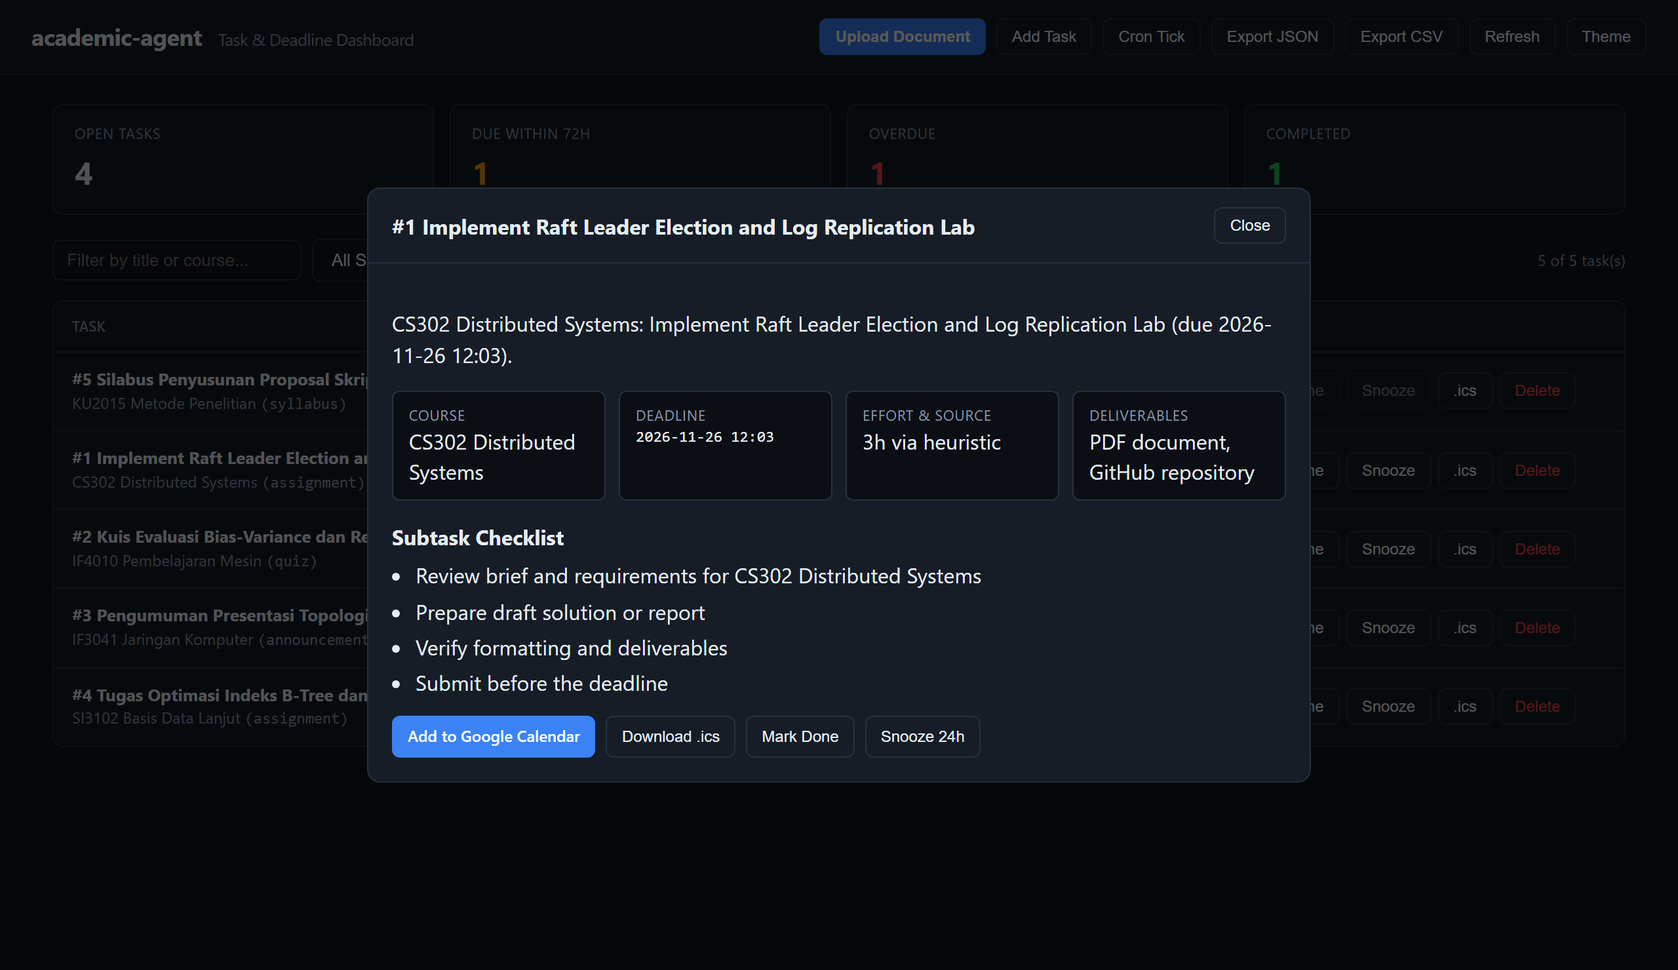
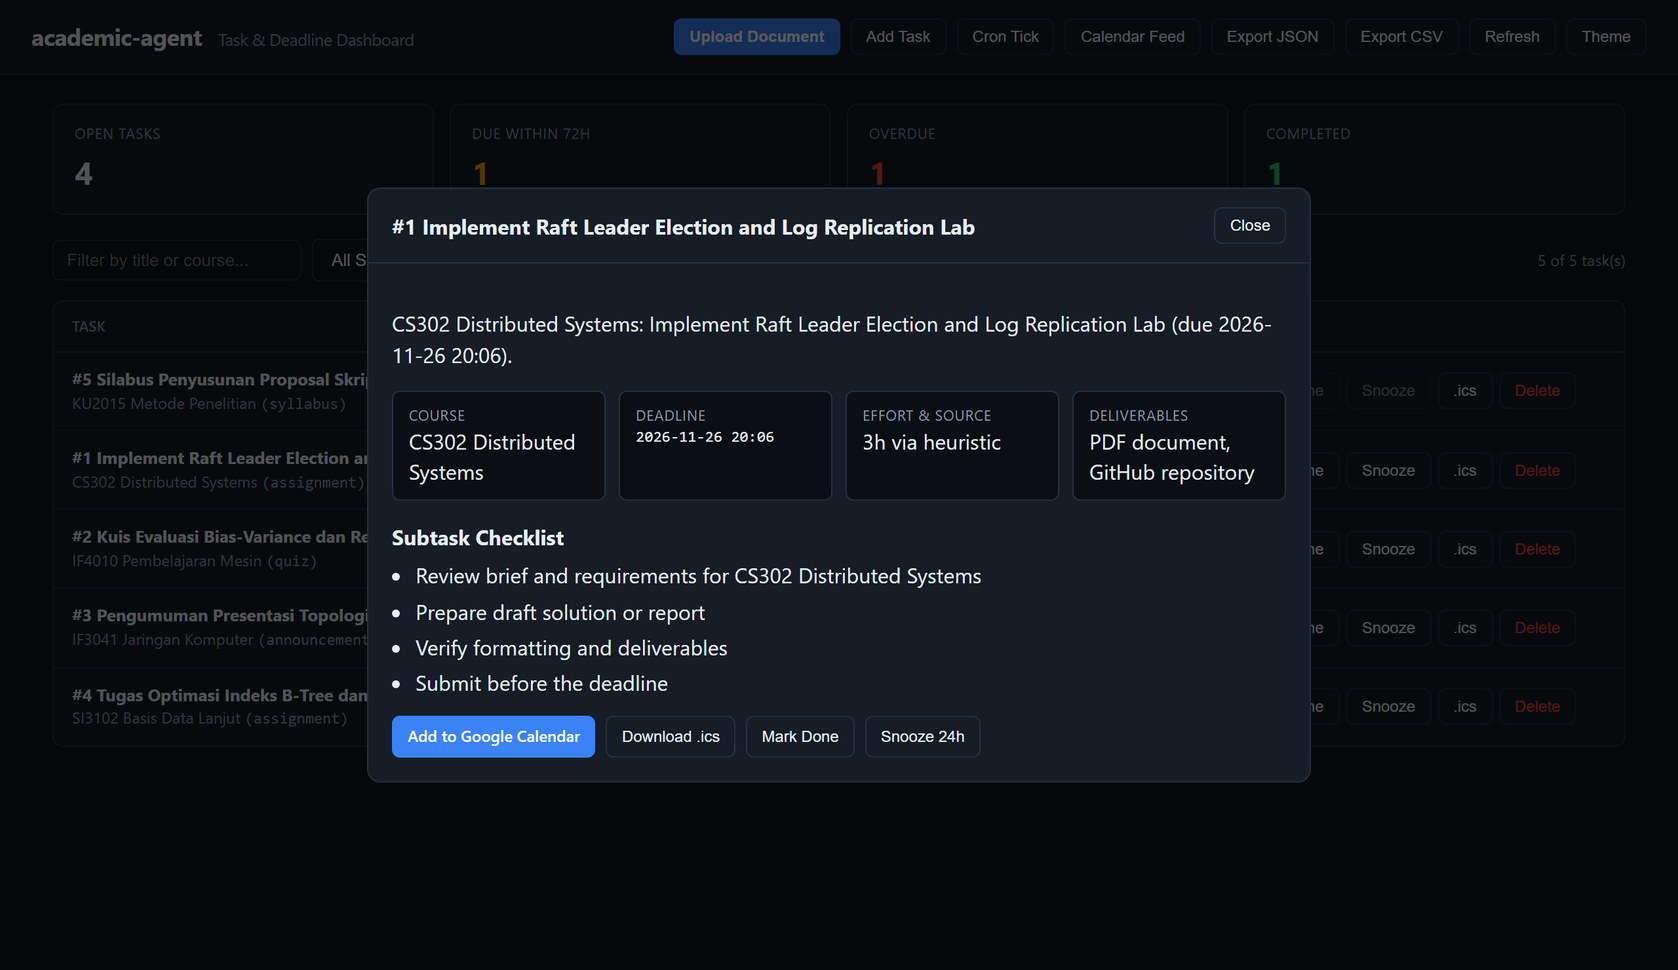
docs: add Docker, distribution, and measured benchmark guides for v0.3.0

Changed region(s): [[0.375, 0.0, 0.7188, 0.0622], [0.25, 0.3419, 0.2812, 0.373]]

diff --git a/README.md b/README.md
@@ -2,11 +2,12 @@
 
 [![CI](https://github.com/luminariadev/academic-agent/actions/workflows/ci.yml/badge.svg)](https://github.com/luminariadev/academic-agent/actions/workflows/ci.yml)
 [![Release](https://img.shields.io/github/v/release/luminariadev/academic-agent?display_name=tag)](https://github.com/luminariadev/academic-agent/releases)
+[![Docker GHCR](https://img.shields.io/badge/ghcr.io-academic--agent-blue)](https://github.com/luminariadev/academic-agent/pkgs/container/academic-agent)
 [![License](https://img.shields.io/github/license/luminariadev/academic-agent)](LICENSE)
 [![Rust 1.82+](https://img.shields.io/badge/rust-1.82%2B-orange)](https://www.rust-lang.org)
 [![MCP stdio + HTTP](https://img.shields.io/badge/MCP-stdio%20%2B%20HTTP-blue)](docs/mcp.md)
 
-A single-binary Rust assistant for ingesting academic documents, extracting assignments and deadlines, synchronizing timezone-accurate `.ics` calendars, running cron deadline reminders, dispatching Discord and Hermes notifications, and exposing task management over the Model Context Protocol (MCP).
+A single-binary Rust assistant for ingesting academic documents, extracting assignments and deadlines, publishing timezone-accurate `.ics` calendars and live iCalendar feeds, running cron deadline reminders, dispatching two-way Discord and Hermes notifications, and exposing task management over the Model Context Protocol (MCP).
 
 ## Why academic-agent
 
@@ -14,13 +15,13 @@ Syllabi, lecture PDFs, DOCX assignment sheets, and portal announcements arrive i
 
 - **Multi-format document ingestion**: parses `.pdf` (pure-Rust `lopdf`), `.docx` paragraphs and tables (`zip` + `quick-xml`), `.txt`, and `.md` files from CLI commands, folder watching (tracking both create and move/rename events), multipart HTTP uploads, and signed `webdelta` webhooks.
 - **Hybrid bilingual extractor**: queries any Chat Completions HTTP gateway for structured task extraction and falls back deterministically to a bilingual Indonesian and English heuristic parser (`15 Juli 2026`, `July 15, 2026`, `DD/MM/YYYY`, ISO timestamps) when offline.
-- **Timezone-accurate calendars**: generates RFC 5545 `.ics` files with dual reminders (`-P1D` and `-PT1H`) and 1-click Google Calendar links converted accurately from your configured IANA timezone (for example `Asia/Jakarta`) to UTC.
+- **Timezone-accurate calendars and live subscription feed**: generates RFC 5545 `.ics` files with dual reminders (`-P1D` and `-PT1H`), 1-click Google Calendar links converted accurately from your configured IANA timezone (for example `Asia/Jakarta`) to UTC, plus a live `GET /api/calendar/feed.ics` subscription endpoint (with `?token=`, `?course=`, and `?include_completed=`) and CLI `calendar-feed`.
 - **Embedded `redb` task store with deduplication**: computes SHA-256 content hashes inside ACID transactions so re-scanning or re-uploading the same document never duplicates tasks, calendars, or alerts.
 - **Cron reminder and digest scheduler**: dispatches a scheduled local-time daily digest plus tiered deadline alerts (default `H-72h`, `H-24h`, `H-3h`, and `OVERDUE`) with anti-spam persistence and per-task snoozing.
-- **Embedded local web dashboard**: serves a self-contained dark/light task management UI at `GET /` with urgency counters, status/priority filtering, document upload, manual task creation, `.ics`/JSON/CSV exports, and manual cron triggers.
+- **Embedded local web dashboard**: serves a self-contained dark/light task management UI at `GET /` with urgency counters, status/priority filtering, document upload, manual task creation, one-click `Calendar Feed` subscription URL copy, `.ics`/JSON/CSV exports, and manual cron triggers.
 - **Two-way Discord and Hermes integration**: sends structured embeds with interactive **Mark Done**, **Snooze 24h**, and **Add to Google Calendar** buttons over Discord REST v10 or Webhooks (`429 Retry-After` backoff), handles slash commands (`/tasks`, `/upcoming`, `/done`, `/snooze`, `/add`, `/digest`) and button callbacks over Discord Gateway (`intents: 0`), plus optional `hermes` CLI dispatch and outbound signed n8n webhooks.
 - **Optional Playwright LMS connector**: bridges JavaScript-heavy university portals into `academic-agent serve` via [connectors/lms-playwright/](connectors/lms-playwright/README.md) with persistent session cookies, attachment uploads, configurable site selector profiles, and a simulated campus LMS for offline testing.
-- **Built-in MCP server**: serves 8 MCP tools and 4 read-only `academic://` resources over `stdio` or Streamable HTTP (`POST /mcp`).
+- **Built-in MCP server**: serves 8 MCP tools and 5 read-only `academic://` resources (`academic://calendar/feed` included) over `stdio` or Streamable HTTP (`POST /mcp`).
 
 ## Dashboard Preview
 
@@ -54,6 +55,29 @@ flowchart LR
 ### Prebuilt Binaries
 
 Download standalone archives for Linux (`x86_64`), Windows (`x86_64`), and macOS (`x86_64` and Apple Silicon) with `SHA256SUMS.txt` from [GitHub Releases](https://github.com/luminariadev/academic-agent/releases).
+
+### Scoop (Windows)
+
+```powershell
+scoop install https://raw.githubusercontent.com/luminariadev/academic-agent/main/packaging/scoop/academic-agent.json
+```
+
+### Homebrew (macOS and Linux)
+
+```bash
+brew install --formula https://raw.githubusercontent.com/luminariadev/academic-agent/main/packaging/homebrew/academic-agent.rb
+```
+
+### Docker and GHCR
+
+Pull the multi-stage non-root image from GitHub Container Registry or build locally with Compose (see [docs/docker.md](docs/docker.md)):
+
+```bash
+docker pull ghcr.io/luminariadev/academic-agent:latest
+docker run -d -p 8080:8080 -v "$(pwd)/data:/data" ghcr.io/luminariadev/academic-agent:latest
+```
+
+See [docs/distribution.md](docs/distribution.md) for checksum verification, package manifest updates, and crate publishing order.
 
 ### Build from Source
 
@@ -153,13 +177,16 @@ Global flags: `--config <PATH>` (default `academic-agent.toml`), `--db <PATH>`, 
 | `academic-agent test-discord` | Send a synthetic verification embed via Discord or Hermes. |
 | `academic-agent discord register-commands [--guild]` | Register `/tasks`, `/upcoming`, `/done`, `/snooze`, `/add`, and `/digest` slash commands with Discord. |
 | `academic-agent discord bot` | Start the persistent Discord Gateway WebSocket listener (`intents: 0`). |
-| `academic-agent serve [--bind B] [--with-cron] [--with-watch] [--with-discord-bot]` | Start the web dashboard, REST API, `webdelta` webhook endpoint, background loops, and `/mcp`. |
+| `academic-agent serve [--bind B] [--with-cron] [--with-watch] [--with-discord-bot]` | Start the web dashboard, REST API, live `.ics` feed, `webdelta` webhook endpoint, background loops, and `/mcp`. |
 | `academic-agent mcp [--http <bind>] [--token <secret>]` | Run MCP over `stdio` or standalone Streamable HTTP. |
+| `academic-agent calendar-feed [--include-completed] [--course C] [--output F]` | Export an RFC 5545 `.ics` subscription feed of tracked tasks. |
 
-## Discord, Hermes, LMS Connector, n8n, and webdelta
+## Calendar Feed, Integrations, and Guides
 
+- **Live iCalendar subscription feed**: subscribe Google Calendar, Apple Calendar, or Outlook to `GET /api/calendar/feed.ics` (supports `?token=<api_token>`, `?course=<filter>`, and `?include_completed=true`), copy the live URL from the dashboard header **Calendar Feed** button, or export offline with `academic-agent calendar-feed`.
 - **Discord and Hermes**: see [docs/discord-and-hermes.md](docs/discord-and-hermes.md) for configuring Bot REST API v10, two-way Gateway slash commands (`/tasks`, `/upcoming`, `/done`, `/snooze`, `/add`, `/digest`) and button callbacks, `429 Retry-After` retries, and Hermes CLI fallback.
 - **Optional Playwright LMS connector**: see [docs/lms-playwright.md](docs/lms-playwright.md) for headless university portal scraping, persistent cookie reuse, selector manifests, and the built-in simulated campus LMS.
+- **Docker and distribution**: see [docs/docker.md](docs/docker.md) for non-root Docker Compose and GHCR usage, and [docs/distribution.md](docs/distribution.md) for Scoop, Homebrew, and `SHA256SUMS.txt` verification.
 - **Configuration reference**: see [docs/configuration.md](docs/configuration.md) for all TOML sections and environment variables.
 - **n8n and webdelta integration**: see [docs/webhooks-n8n.md](docs/webhooks-n8n.md) and [workflows/README.md](workflows/README.md) for importing `workflows/academic-agent.n8n.json` and forwarding signed `X-WebDelta-Signature` alerts from `webdelta` directly into `POST /api/webhooks/webdelta`.
 
@@ -178,7 +205,22 @@ Register the built-in `stdio` MCP server in any MCP-compatible client:
 }
 ```
 
-Tools exposed (`8`): `list_tasks`, `add_task`, `update_status`, `snooze_task`, `scan_document`, `upcoming_deadlines`, `export_ics`, and `send_digest`. Read-only resources exposed (`4`): `academic://tasks`, `academic://upcoming`, `academic://config`, and `academic://calendar/{task_id}`. See [docs/mcp.md](docs/mcp.md).
+Tools exposed (`8`): `list_tasks`, `add_task`, `update_status`, `snooze_task`, `scan_document`, `upcoming_deadlines`, `export_ics`, and `send_digest`. Read-only resources exposed (`5`): `academic://tasks`, `academic://upcoming`, `academic://config`, `academic://calendar/feed`, and `academic://calendar/{task_id}`. See [docs/mcp.md](docs/mcp.md).
+
+## Benchmarks
+
+Measured on Windows 11 x86_64 (Intel Core i5-11400H, 15.7 GB RAM) using the stripped LTO `v0.3.0` release binary (`academic-agent.exe`, `8.67 MB`):
+
+| Workload | Wall Time | Throughput / Payload | Peak RAM |
+| :--- | :--- | :--- | :--- |
+| Binary startup (`--version`, 5-run avg) | 14.5 ms | n/a | 3.42 MB |
+| Single `scan --heuristic` + `.ics` + `redb` write | 63.9 ms | 1 event written | 11.46 MB |
+| Repeat duplicate scan (SHA-256 skip) | 36.2 ms | 0 writes | 11.36 MB |
+| Batch 50 HTTP uploads (`POST /api/upload`, 8 workers) | 230.9 ms | 216.5 docs/s | 18.44 MB (`serve`) |
+| Live HTTP feed (`GET /api/calendar/feed.ics`, 50 events) | 7.96 ms | 45,653 bytes | shared (`18.44 MB`) |
+| MCP `resources/read academic://calendar/feed` (50 events) | 1.1 ms | 50 events | n/a |
+
+See [docs/benchmarks.md](docs/benchmarks.md) for full methodology and all 10 measured scenarios.
 
 ## Development and Testing
 
@@ -195,7 +237,7 @@ python -m pytest connectors/lms-playwright/tests/test_lms_connector.py -v
 
 - **v0.1.0**: Rust workspace overhaul (`academic-core`, `academic-mcp`, `academic-cli`), pure-Rust PDF/DOCX parsing, bilingual LLM/heuristic extraction, UTC-corrected `.ics` and Google Calendar links, `redb` content deduplication, cron reminder/digest scheduler, Discord + Hermes notifiers, Axum REST API with `webdelta` HMAC receiver, and `stdio` + HTTP MCP server.
 - **v0.2.0**: Two-way Discord Bot Gateway (slash commands and interactive action buttons), embedded web task dashboard with high-DPI previews, and optional Playwright LMS connector (`connectors/lms-playwright/`) validated against a simulated campus portal.
-- **v0.3.0**: Multi-OS prebuilt release archives with `SHA256SUMS.txt`, non-root Docker GHCR image, Scoop and Homebrew manifests, and measured benchmarks.
+- **v0.3.0**: Live RFC 5545 iCalendar subscription feed (`GET /api/calendar/feed.ics`, CLI `calendar-feed`, MCP `academic://calendar/feed`, and dashboard header button), non-root multi-stage Docker image with GHCR workflow and Compose, Scoop and Homebrew manifests with verified `SHA256SUMS.txt` hashes, and reproducible benchmarks.
 
 ## License
 

diff --git a/docs/benchmarks.md b/docs/benchmarks.md
@@ -1,0 +1,40 @@
+# Benchmarks
+
+This document records reproducible latency, throughput, and working-set memory measurements for `academic-agent` v0.3.0.
+
+## Test Environment
+
+- **OS**: Microsoft Windows 11 Home Single Language (x86_64)
+- **CPU**: 11th Gen Intel Core i5-11400H @ 2.70 GHz
+- **Memory**: 15.7 GB RAM
+- **Toolchain**: `rustc 1.100.0 (0ef1bc386 2026-11-09)`, release profile (`opt-level = 3`, `lto = true`, `codegen-units = 1`, `strip = true`)
+- **Binary size**: `academic-agent.exe` = 8.67 MB (9,095,680 bytes)
+
+## Methodology
+
+1. CLI wall-clock timings and `PeakWorkingSet64` memory were captured externally using `.NET` `System.Diagnostics.Stopwatch` and `System.Diagnostics.Process` around `target\release\academic-agent.exe` using temporary TOML configurations and `redb` databases.
+2. Startup (`--version`) ran one unmeasured OS cache warmup followed by a 5-run average; config validation (`validate`) ran a 5-run average.
+3. Batch HTTP ingestion launched `academic-agent serve` bound to `127.0.0.1` and uploaded 50 distinct bilingual assignment documents across 8 concurrent workers via `POST /api/upload?heuristic=true&notify=false`.
+4. Live iCalendar feed latency measured `GET /api/calendar/feed.ics` over the 50-task store (5-run average) and compared against `academic-agent calendar-feed --output`.
+5. MCP latency was measured over an active `academic-agent mcp` `stdio` process sending newline-delimited JSON-RPC 2.0 requests against the 50-task store.
+
+## Results
+
+| Scenario | Command / Operation | Wall Time | Throughput / Size | Peak RAM |
+| :--- | :--- | :--- | :--- | :--- |
+| Binary startup | `academic-agent --version` (5-run average) | 14.5 ms | n/a | 3.42 MB |
+| Config validation | `academic-agent --config examples/academic-agent.toml validate` (5-run avg) | 26.8 ms | n/a | 6.82 MB |
+| Single scan + `.ics` | `academic-agent scan doc.txt --heuristic` (`redb` insert) | 63.9 ms | 1 event written | 11.46 MB |
+| Duplicate skip | Repeat `academic-agent scan doc.txt --heuristic` (SHA-256 hit) | 36.2 ms | 0 writes | 11.36 MB |
+| Batch 50 uploads | `POST /api/upload?heuristic=true&notify=false` (8-way concurrency) | 230.9 ms | 216.5 docs/s | 18.44 MB (`serve`) |
+| Live `.ics` HTTP feed | `GET /api/calendar/feed.ics` (50 events, 5-run average) | 7.96 ms | 45,653 bytes | shared (`18.44 MB`) |
+| CLI `.ics` feed export | `academic-agent calendar-feed --output feed.ics` (50 events) | 52.2 ms | 50 events | 11.16 MB |
+| MCP `initialize` | JSON-RPC `initialize` over `stdio` | 9.1 ms | n/a | n/a |
+| MCP `list_tasks` | `tools/call list_tasks` across 50 stored tasks | 1.4 ms | 50 tasks | n/a |
+| MCP feed resource | `resources/read academic://calendar/feed` across 50 events | 1.1 ms | 50 events | n/a |
+
+## Observations
+
+- Processing 50 concurrent document uploads (text extraction, heuristic parsing, `.ics` disk generation, and transactional `redb` indexing) finishes in 230.9 ms while holding server peak working set memory at 18.44 MB.
+- Repeat ingestion of identical files short-circuits via SHA-256 hash lookup in `redb` (`36.2 ms` total process lifetime vs `63.9 ms` for new writes) without duplicating calendar artifacts or notifications.
+- Generating a complete 50-event RFC 5545 subscription feed runs in 7.96 ms over HTTP (`45.65 KB`) and 1.1 ms on an active `stdio` MCP session.

diff --git a/docs/distribution.md b/docs/distribution.md
@@ -1,0 +1,80 @@
+# Distribution and Packaging
+
+`academic-agent` is distributed as standalone GitHub Release binaries with SHA-256 checksums, non-root container images on GitHub Container Registry, and package manifests for Scoop and Homebrew.
+
+## Prebuilt GitHub Release Archives
+
+Every semantic version tag (`v*.*.*`) builds release binaries across four targets via `.github/workflows/release.yml` and attaches `SHA256SUMS.txt` on [GitHub Releases](https://github.com/luminariadev/academic-agent/releases):
+
+- `academic-agent-v<version>-x86_64-unknown-linux-gnu.tar.gz`
+- `academic-agent-v<version>-x86_64-pc-windows-msvc.zip`
+- `academic-agent-v<version>-x86_64-apple-darwin.tar.gz`
+- `academic-agent-v<version>-aarch64-apple-darwin.tar.gz`
+
+Verify archive integrity against `SHA256SUMS.txt`:
+
+```bash
+curl -fsSLO https://github.com/luminariadev/academic-agent/releases/download/v0.2.0/academic-agent-v0.2.0-x86_64-unknown-linux-gnu.tar.gz
+curl -fsSLO https://github.com/luminariadev/academic-agent/releases/download/v0.2.0/SHA256SUMS.txt
+sha256sum -c --ignore-missing SHA256SUMS.txt
+```
+
+On Windows PowerShell:
+
+```powershell
+Get-FileHash .\academic-agent-v0.2.0-x86_64-pc-windows-msvc.zip -Algorithm SHA256
+```
+
+## Scoop (Windows)
+
+Install using the manifest at [packaging/scoop/academic-agent.json](../packaging/scoop/academic-agent.json):
+
+```powershell
+scoop install https://raw.githubusercontent.com/luminariadev/academic-agent/main/packaging/scoop/academic-agent.json
+```
+
+Or from a local checkout:
+
+```powershell
+scoop install ./packaging/scoop/academic-agent.json
+```
+
+Scoop `autoupdate` resolves new release checksums automatically from `$baseurl/SHA256SUMS.txt`.
+
+## Homebrew (macOS and Linux)
+
+Install using the formula at [packaging/homebrew/academic-agent.rb](../packaging/homebrew/academic-agent.rb):
+
+```bash
+brew install --formula https://raw.githubusercontent.com/luminariadev/academic-agent/main/packaging/homebrew/academic-agent.rb
+```
+
+Or from a local checkout:
+
+```bash
+brew install --formula ./packaging/homebrew/academic-agent.rb
+```
+
+Note that [packaging/scoop/academic-agent.json](../packaging/scoop/academic-agent.json) and [packaging/homebrew/academic-agent.rb](../packaging/homebrew/academic-agent.rb) pin SHA-256 digests from published GitHub Release assets (`SHA256SUMS.txt`); after a new release tag finishes publishing its archives, update the manifest version and checksums from the newly published `SHA256SUMS.txt`.
+
+## Docker and GHCR
+
+Prebuilt multi-stage non-root container images are published on version tags:
+
+```bash
+docker pull ghcr.io/luminariadev/academic-agent:latest
+```
+
+See [docs/docker.md](docker.md) for Compose setup, persistent volumes, and environment variables.
+
+## Publishing Workspace Crates
+
+The Cargo workspace uses explicit internal crate versions so crates can be published in dependency order:
+
+```bash
+cargo publish -p academic-core
+cargo publish -p academic-mcp
+cargo publish -p academic-cli
+```
+
+Wait briefly for crates.io index propagation between dependent publishes, and validate locally first using `cargo package --workspace --locked --no-verify`.

diff --git a/docs/docker.md b/docs/docker.md
@@ -1,0 +1,76 @@
+# Docker Deployment
+
+`academic-agent` ships a multi-stage non-root `Dockerfile` and `docker-compose.yml` running the embedded web dashboard, REST API, live iCalendar feed (`GET /api/calendar/feed.ics`), cron reminder scheduler, inbox watcher, and Streamable HTTP `/mcp` server.
+
+## Quick Start with Docker Compose
+
+1. Create the host `./data` directory and place a configuration file at `./data/academic-agent.toml`:
+
+```bash
+mkdir -p data/inbox data/archive data/calendar
+cp examples/academic-agent.toml data/academic-agent.toml
+```
+
+Inside the container, the working directory is `/data` and the entrypoint defaults to `--config /data/academic-agent.toml --db /data/state.redb`. If you want calendar files written directly to `./data/calendar` on the host, set relative container paths under `[general]` (`inbox_dir = "inbox"`, `archive_dir = "archive"`, `calendar_dir = "calendar"`).
+
+2. Configure environment variables for authentication, LLM extraction, and notifications:
+
+```bash
+export ACADEMIC_API_TOKEN="change-me-to-a-strong-token"
+export DISCORD_BOT_TOKEN="your-discord-bot-token"
+export DISCORD_CHANNEL_ID="123456789012345678"
+export DISCORD_APPLICATION_ID="123456789012345678"
+export ACADEMIC_LLM_API_BASE="https://llm-gateway.example.com/v1"
+export ACADEMIC_LLM_API_KEY="your-llm-key"
+```
+
+3. Build and start the container:
+
+```bash
+docker compose up -d --build
+```
+
+The service listens on port `8080`:
+
+- Embedded web dashboard: `http://127.0.0.1:8080/`
+- Live iCalendar subscription feed: `http://127.0.0.1:8080/api/calendar/feed.ics`
+- Health check endpoint: `http://127.0.0.1:8080/health`
+- Streamable HTTP MCP endpoint: `http://127.0.0.1:8080/mcp`
+
+## Enabling the Interactive Discord Gateway Bot in Compose
+
+The default `CMD` enables `--with-cron` and `--with-watch`. To also run the persistent two-way Discord WebSocket Gateway listener (`--with-discord-bot`) inside the same container, add `command:` to `docker-compose.yml`:
+
+```yaml
+    command:
+      - "--config"
+      - "/data/academic-agent.toml"
+      - "--db"
+      - "/data/state.redb"
+      - "serve"
+      - "--bind"
+      - "0.0.0.0:8080"
+      - "--with-cron"
+      - "--with-watch"
+      - "--with-discord-bot"
+```
+
+## Prebuilt GHCR Container Images
+
+Version tags automatically build and publish container images to GitHub Container Registry via `.github/workflows/docker.yml`:
+
+```bash
+docker pull ghcr.io/luminariadev/academic-agent:latest
+docker run -d \
+  -p 8080:8080 \
+  -v "$(pwd)/data:/data" \
+  -e ACADEMIC_API_TOKEN="secret" \
+  ghcr.io/luminariadev/academic-agent:latest
+```
+
+## Health Checks and Persistence
+
+- Container execution runs as non-root user `academic`.
+- Database state (`state.redb`), inbox uploads, archives, and `.ics` files persist inside the mounted `./data` volume.
+- Docker checks `GET http://127.0.0.1:8080/health` every 30 seconds and expects HTTP `200`.
+- When `ACADEMIC_API_TOKEN` is set, `/api/*` and `/mcp` endpoints require `Authorization: Bearer <token>` (while `/api/calendar/feed.ics` also supports `?token=<token>` for standard calendar clients).

diff --git a/CHANGELOG.md b/CHANGELOG.md
@@ -4,6 +4,21 @@ All notable changes to `academic-agent` are documented in this file.
 
 The format follows Keep a Changelog, and this project adheres to Semantic Versioning.
 
+## [0.3.0] - 2026-11-27
+
+### Added
+
+- Multi-event RFC 5545 iCalendar subscription feed generator (`academic_core::calendar::generate_ics_feed` and `filter_tasks_for_feed`) with deterministic task UIDs, `X-WR-CALNAME` / `X-WR-TIMEZONE` / `REFRESH-INTERVAL` headers, dual alarms on open tasks, and RFC 5545 text escaping.
+- Live feed exposure across every interface: `GET /api/calendar/feed.ics` (supporting Bearer header or `?token=` query auth plus `?include_completed=` and `?course=` filters), MCP resource `academic://calendar/feed`, CLI `academic-agent calendar-feed`, and a one-click `Calendar Feed` button in the embedded dashboard header.
+- Multi-stage non-root `Dockerfile`, `.dockerignore`, `docker-compose.yml`, and `.github/workflows/docker.yml` publishing GHCR images on semantic version tags.
+- Package manifests for Windows Scoop ([packaging/scoop/academic-agent.json](packaging/scoop/academic-agent.json)) and macOS/Linux Homebrew ([packaging/homebrew/academic-agent.rb](packaging/homebrew/academic-agent.rb)) pinned with verified release SHA-256 checksums.
+- Container deployment, distribution, and measured performance documentation ([docs/docker.md](docs/docker.md), [docs/distribution.md](docs/distribution.md), [docs/benchmarks.md](docs/benchmarks.md)).
+
+### Changed
+
+- Expanded read-only MCP resources to 5 total (4 static resources in `resources/list` including `academic://calendar/feed`, plus the `academic://calendar/{task_id}` template) and extended E2E tests (`serve_http_e2e`, `mcp_e2e`).
+- Extended GitHub Actions CI validation to check `packaging/scoop/academic-agent.json`, `Dockerfile`, and `docker-compose.yml`.
+
 ## [0.2.0] - 2026-11-27
 
 ### Added

diff --git a/docs/mcp.md b/docs/mcp.md
@@ -39,11 +39,12 @@ academic-agent serve --bind 127.0.0.1:8080 --token "${ACADEMIC_API_TOKEN}" --wit
 | `export_ics` | `task_id` | none | Generate/read RFC 5545 `.ics` content and Google Calendar link for a task. |
 | `send_digest` | none | `dry_run` | Summarize open tasks (`dry_run` defaults to `true`). |
 
-## Read-Only Resources (4)
+## Read-Only Resources (5)
 
 | URI / Template | MIME Type | Content |
 | :--- | :--- | :--- |
 | `academic://tasks` | `application/json` | Full JSON list of all stored tasks. |
 | `academic://upcoming` | `application/json` | Incomplete tasks due within 72 hours or already overdue. |
 | `academic://config` | `text/plain` | Active TOML configuration with literal secrets redacted. |
+| `academic://calendar/feed` | `text/calendar` | Live RFC 5545 `.ics` subscription feed of all open tasks with deadlines. |
 | `academic://calendar/{task_id}` | `text/calendar` | RFC 5545 `.ics` calendar payload for `{task_id}`. |
